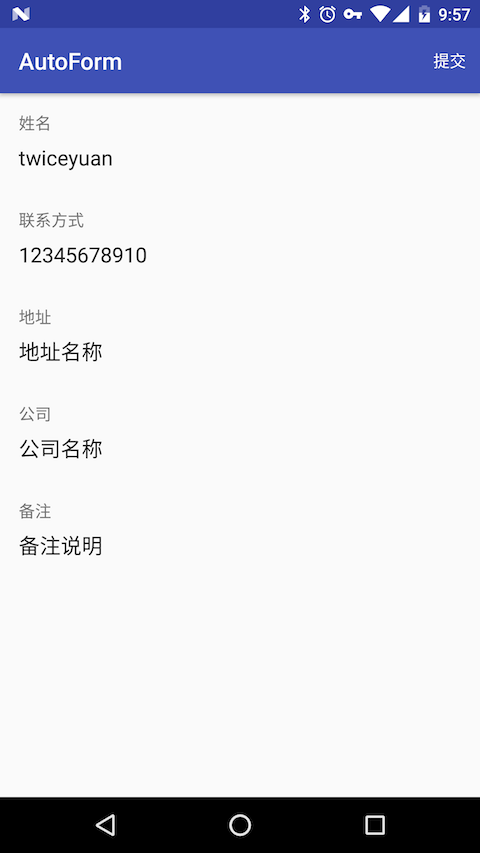
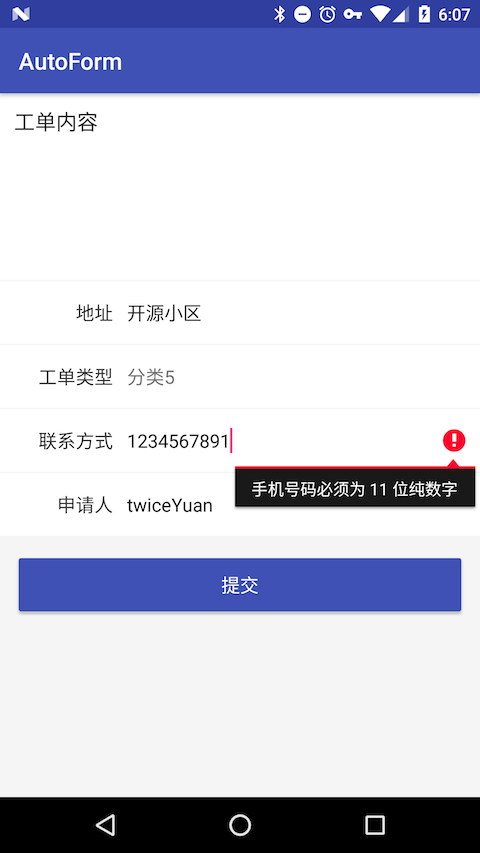
补充注释和文档

diff --git a/library/src/main/java/com/twiceyuan/autoform/util/FormInitHelper.java b/library/src/main/java/com/twiceyuan/autoform/util/FormInitHelper.java
@@ -29,7 +29,7 @@ public class FormInitHelper {
         FormInitHelper helper = new FormInitHelper();
 
         helper.mHintProvider = Instances.getHintProvider(form.hintProvider());
-        helper.mFormItemProviderClass = form.itemProvider();
+        helper.mFormItemProviderClass = form.layout();
 
         return helper;
     }

diff --git a/sample/src/main/java/com/twiceyuan/autoform/sample/DemoForm.java b/sample/src/main/java/com/twiceyuan/autoform/sample/DemoForm.java
@@ -13,7 +13,7 @@ import com.twiceyuan.autoform.sample.form.TextAreaLayoutProvider;
  * <p>
  * 表单示例
  */
-@Form(itemProvider = NormalLayoutProvider.class)
+@Form(layout = NormalLayoutProvider.class)
 public class DemoForm {
 
     @FormField(label = "工单内容", order = 0, layout = TextAreaLayoutProvider.class)

diff --git a/library/src/main/java/com/twiceyuan/autoform/annotations/Form.java b/library/src/main/java/com/twiceyuan/autoform/annotations/Form.java
@@ -23,5 +23,5 @@ public @interface Form {
 
     Class<? extends HintProvider> hintProvider() default SimpleHintProvider.class;
 
-    Class<? extends LayoutProvider> itemProvider() default SimpleLayoutProvider.class;
+    Class<? extends LayoutProvider> layout() default SimpleLayoutProvider.class;
 }

diff --git a/README.md b/README.md
@@ -1,37 +1,41 @@
 # AutoForm
 
-Android 表单页面逻辑生成管理工具。可以直接注解在需要提交的数据实体上，可以和 Gson、ORM 同时使用。
+高度可复用的 Android 表单界面生成器。通过定义表单元素的界面样式、校验逻辑，然后注解在数据实体上来生成表单提交页。
 
 # 使用方式
 
 1. 定义一个表单类 `DemoForm.java`，用来说明表单里的输入项、样式、提示、校验
 
     ```java
-    @Form
+    // layout 用来注解对应的表单样式提供者，可以定义表单全局和对应字段的
+    @Form(layout = NormalLayoutProvider.class)
     public class DemoForm {
-
-        @FormField(label = "姓名", order = 0)
+        
+        // order 来控制表单字段在表单页面中的位置
+        @FormField(label = "工单内容", order = 0, layout = TextAreaLayoutProvider.class)
         public String name;
-
-        @FormField(label = "联系方式", order = 1)
-        public String phone;
-
-        @FormField(label = "地址", order = 2)
+    
+        @FormField(label = "工单类型", order = 1.5f, layout = SelectorLayoutProvider.class)
+        public String type;
+    
+        @FormField(label = "地址", order = 1)
         public String address;
-
-        @FormField(label = "公司", order = 3)
+    
+        // validator 定义表单的校验器，以及校验过程中的界面动作
+        @FormField(label = "联系方式", order = 2, validator = PhoneValidator.class, layout = PhoneLayoutProvider.class)
+        public String phone;
+    
+        @FormField(label = "申请人", order = 3)
         public String company;
-
-        @FormField(label = "备注", order = 4)
-        public String remark;
     }
     ```
 
-2. 用 `FormManager.build(DemoForm.class)` 来获取 manager 对象，然后通过 manager 获取 RecyclerView 的适配器并设置给 RecyclerView：
+2. 用 `FormManager.build(DemoForm.class)` 来获取 manager 对象，然后通过 inject 方法将表单注入到对应的布局容器中：
     ```java
-    mFormManager = FormManager.build(DemoForm.class);
-    mRecyclerView.setLayoutManager(new LinearLayoutManager(this));
-    mRecyclerView.setAdapter(mFormManager.getAdapter());
+    mForm = (FrameLayout) findViewById(R.id.form);
+    final FormManager formManager = FormManager
+                    .build(DemoForm.class)
+                    .inject(mForm, true);
     ```
     
 3. 获取输入结果：
@@ -39,11 +43,9 @@ Android 表单页面逻辑生成管理工具。可以直接注解在需要提交
     mFormManager.getResult() // 返回 Map<String, Object> 对象
     ```
 
-4. 大多数情况需要定制表单样式。如果需要整个表单使用统一样式，可以在 @Form 注解中标注 itemProvider 的值为一个 FormItemProvider 子类的 Class。
+4. 大多数情况需要定制表单样式。如果需要整个表单使用统一样式，可以在 @Form 注解中标注 layout 的值为一个 LayoutProvider 子类的 Class。
 
-   然后通过继承 FormItemProvider 来实现样式定制。还有一些其他的属性也提供了类似的定制方式，例如编辑框的 hint 提示等，使用方式可以参考默认值 SimpleFormItemProvider 和 SimpleHintProvider 的代码。
-
-   因为注解的 Field 在反射获取时是顺序无关的，所以需要 order 类来标注顺序，这个暂时还没有找到更好的方案。
+   然后通过继承 LayoutProvider 来实现样式定制。还有一些其他的属性也提供了类似的定制方式，例如编辑框的 hint 提示等，使用方式可以参考默认值 SimpleFormItemProvider 和 SimpleHintProvider 的代码。
 
 ## 效果示意
 
@@ -54,11 +56,6 @@ Android 表单页面逻辑生成管理工具。可以直接注解在需要提交
 2. 获取输入结果
 
 ![获取结果](art/form-result.png)
-
-## TODO
-
-* 异步校验器
-* 动态字段
 
 ## License
 
